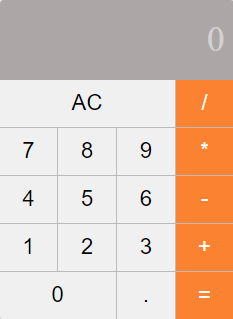
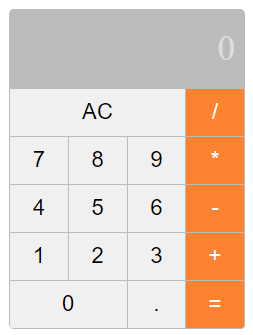
background application

diff --git a/src/index.css b/src/index.css
@@ -7,7 +7,7 @@ body {
   text-align: center;
   align-items: center;
   color: rgba(255, 255, 255, 0.486);
-  background-color: rgba(206, 184, 184, 0.404);
+  background-color: #fff;
 }
 
 button {
